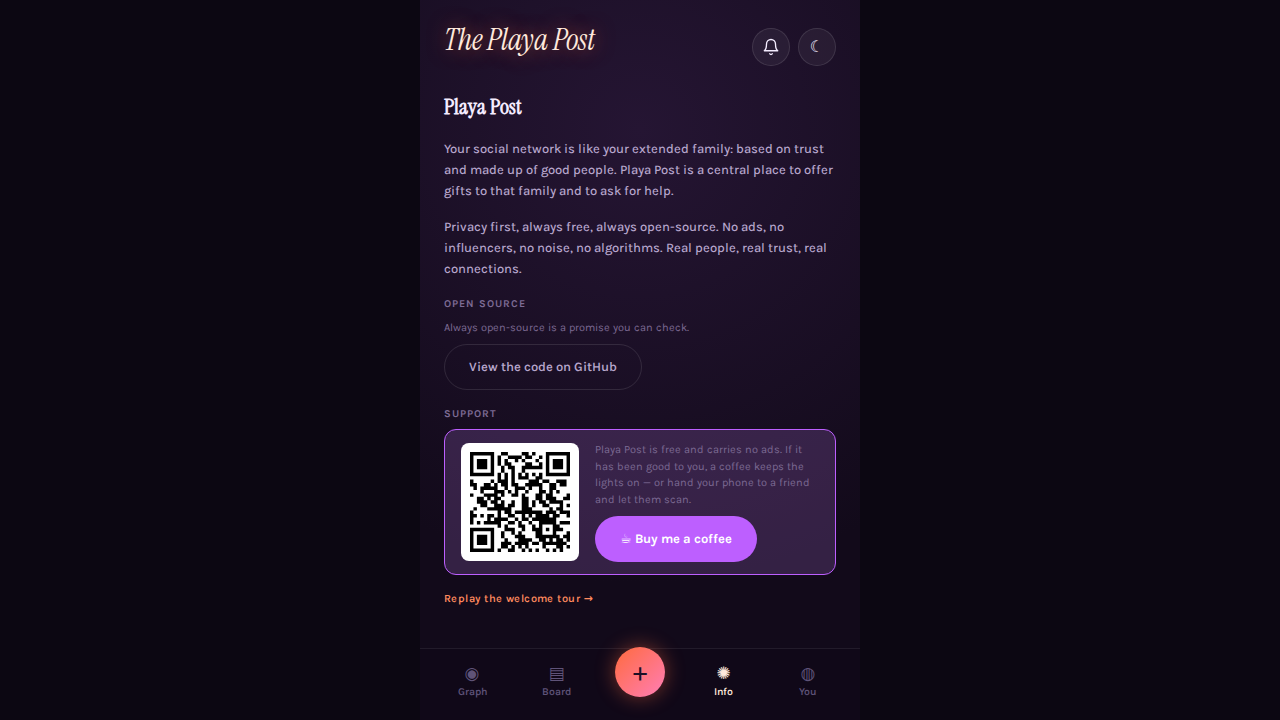
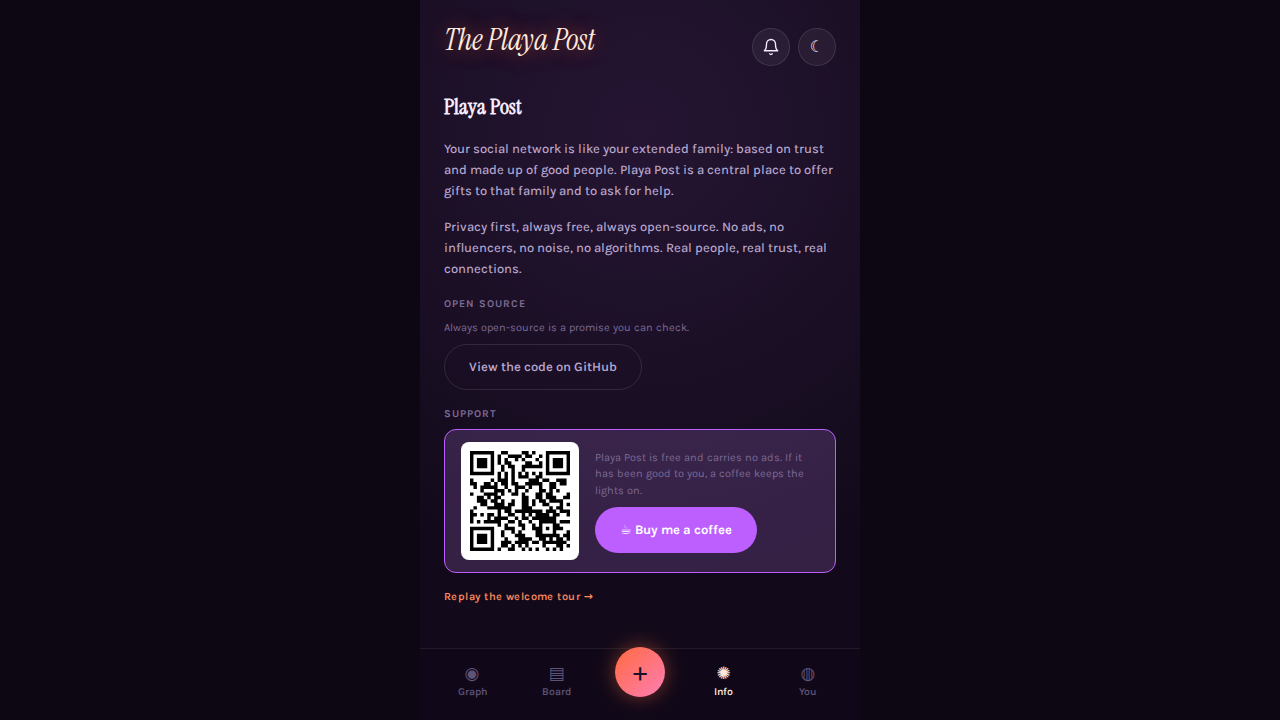
fix(web): support card copy stops at "keeps the lights on" (#226) (#227)
The QR beside the words already invites the scan; the trailing clause
repeated it and ran the aside long.

Changed region(s): [[0.3438, 0.6111, 0.625, 0.8556]]

diff --git a/apps/web/src/app/routes/info.unit.test.tsx b/apps/web/src/app/routes/info.unit.test.tsx
@@ -101,6 +101,9 @@ describe('the Info screen', () => {
     expect(card?.querySelector('[data-testid="info-coffee-qr"] svg')).not.toBeNull();
     expect(card?.querySelector('[data-testid="info-coffee-link"]')).not.toBeNull();
     expect(card?.querySelector('.screen__aside')).not.toBeNull();
+    // The explainer stops at "keeps the lights on." — the QR beside it already says
+    // "let them scan", so the clause was cut (owner request, follows #224).
+    expect(card?.textContent ?? '').not.toContain('hand your phone');
   });
 
   it('keeps the open-source promise but never says where the code lives (issue #224)', async () => {

diff --git a/apps/web/src/app/routes/info.tsx b/apps/web/src/app/routes/info.tsx
@@ -69,7 +69,7 @@ export function InfoRoute(): JSX.Element {
           <div className="info__support-body">
             <p className="screen__aside">
               Playa Post is free and carries no ads. If it has been good to you, a coffee
-              keeps the lights on — or hand your phone to a friend and let them scan.
+              keeps the lights on.
             </p>
             <a
               className="button info__coffee"
